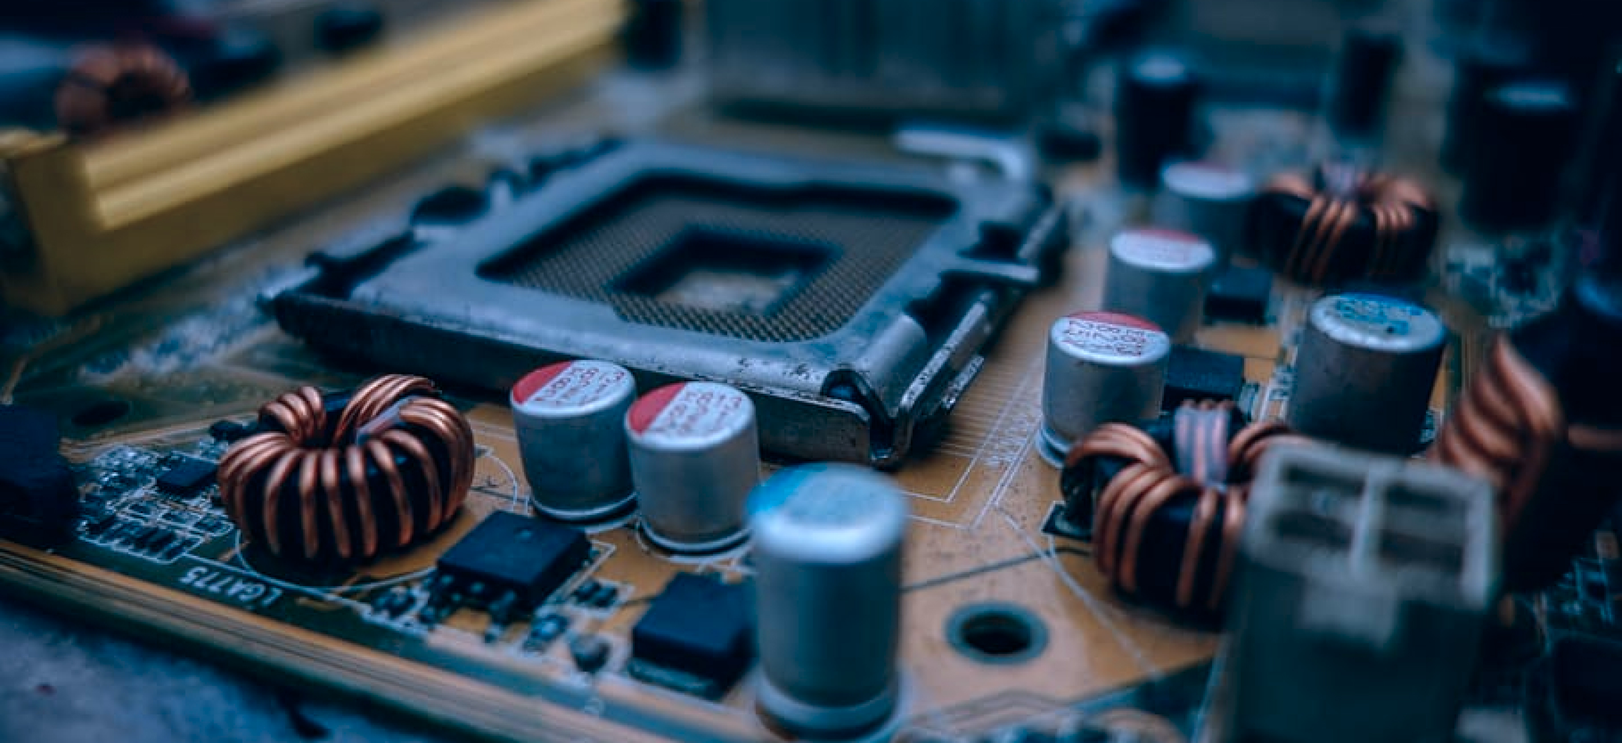
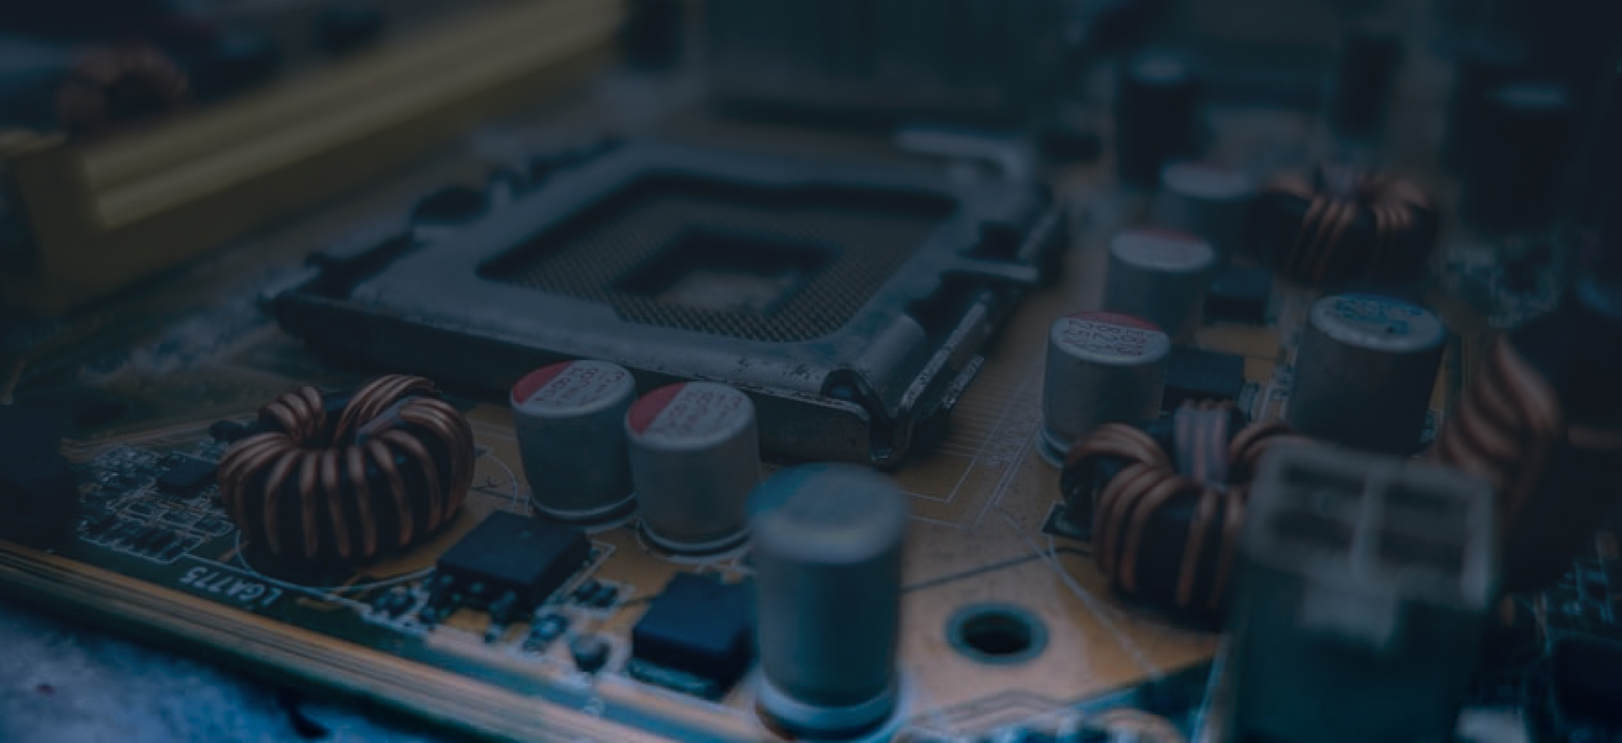
правит фоны секции главное

diff --git a/build/css/style.min.css b/build/css/style.min.css
@@ -1,3 +1,3 @@
 /*! normalize.css v8.0.1 | MIT License | github.com/necolas/normalize.css */
-html{-webkit-text-size-adjust:100%}details,main{display:block}h1{margin:.67em 0;font-size:2em}hr{-webkit-box-sizing:content-box;box-sizing:content-box;height:0;overflow:visible}code,kbd,pre,samp{font-size:1em;font-family:monospace,monospace}a{background-color:transparent;color:inherit;text-decoration:none}abbr[title]{-webkit-text-decoration:underline dotted;text-decoration:underline dotted;border-bottom:none}b,strong{font-weight:bolder}small{font-size:80%}sub,sup{position:relative;font-size:75%;line-height:0;vertical-align:baseline}sub{bottom:-.25em}sup{top:-.5em}img{border-style:none}button,input,optgroup,select,textarea{margin:0;font-size:100%;line-height:1.15;font-family:inherit}button,input{overflow:visible}button,select{text-transform:none}[type=button]::-moz-focus-inner,[type=reset]::-moz-focus-inner,[type=submit]::-moz-focus-inner,button::-moz-focus-inner{padding:0;border-style:none}[type=button]:-moz-focusring,[type=reset]:-moz-focusring,[type=submit]:-moz-focusring,button:-moz-focusring{outline:1px dotted ButtonText}fieldset{padding:.35em .75em .625em}legend{display:table;max-width:100%;color:inherit;white-space:normal}progress{vertical-align:baseline}textarea{overflow:auto;resize:none}[type=checkbox],[type=radio],legend{-webkit-box-sizing:border-box;box-sizing:border-box;padding:0}[type=number]::-webkit-inner-spin-button,[type=number]::-webkit-outer-spin-button{height:auto}[type=search]{outline-offset:-2px;-webkit-appearance:textfield}[type=search]::-webkit-search-decoration{-webkit-appearance:none}::-webkit-file-upload-button{font:inherit;-webkit-appearance:button}summary{display:list-item}[hidden],template{display:none}@font-face{font-family:"PT Mono";src:url(../fonts/PTMono-Regular.woff2) format("woff2"),url(../fonts/PTMono-Regular.woff) format("woff");font-weight:400;font-style:normal;font-display:swap}@font-face{font-family:"Roboto Condensed";src:url(../fonts/RobotoCondensed-Regular.woff2) format("woff2"),url(../fonts/RobotoCondensed-Regular.woff) format("woff");font-weight:400;font-style:normal;font-display:swap}@font-face{font-family:"Roboto Condensed";src:url(../fonts/RobotoCondensed-Bold.woff2) format("woff2"),url(../fonts/RobotoCondensed-Bold.woff) format("woff");font-weight:700;font-style:normal;font-display:swap}*,::after,::before{-webkit-box-sizing:border-box;box-sizing:border-box}body,html{margin:0;padding:0;min-height:100vh;min-width:320px}html{font-style:normal;font-weight:400;font-size:16px;line-height:22px;font-family:"PT Mono","Times New Roman",serif;color:#ebebeb;-webkit-font-smoothing:antialiased;-moz-osx-font-smoothing:grayscale;text-rendering:optimizeLegibility}body{width:100%;height:100%;background-color:#041827}img,video{display:block;max-width:100%;height:auto}input:-webkit-autofill{-webkit-box-shadow:inset 0 0 0 1000px #fff;box-shadow:inset 0 0 0 1000px #fff;-webkit-text-fill-color:#000}input,select,textarea{border-radius:0}input::-webkit-input-placeholder,textarea::-webkit-input-placeholder{opacity:1}input::-moz-placeholder,textarea::-moz-placeholder{opacity:1}input:-ms-input-placeholder,textarea:-ms-input-placeholder{opacity:1}input::-ms-input-placeholder,textarea::-ms-input-placeholder{opacity:1}input::placeholder,textarea::placeholder{opacity:1}input:invalid,textarea:invalid{-webkit-box-shadow:none;box-shadow:none}input::-ms-clear,input::-ms-reveal{display:none}input[type=search]::-webkit-search-cancel-button,input[type=search]::-webkit-search-decoration,input[type=search]::-webkit-search-results-button,input[type=search]::-webkit-search-results-decoration{-webkit-appearance:none;appearance:none}input::-webkit-inner-spin-button,input::-webkit-outer-spin-button{margin:0;-webkit-appearance:none;appearance:none}input[type=number]{-webkit-appearance:textfield;-moz-appearance:textfield;appearance:textfield}input:matches([type=email],[type=number],[type=password],[type=search],[type=tel],[type=text],[type=url]),select,textarea{-webkit-appearance:none;-moz-appearance:none;appearance:none}[type=button],[type=reset],[type=submit],button{-webkit-appearance:none;-moz-appearance:none;appearance:none}.wrapper{position:relative;display:-webkit-box;display:-ms-flexbox;display:flex;-webkit-box-orient:vertical;-webkit-box-direction:normal;-ms-flex-direction:column;flex-direction:column;min-height:100vh;min-height:calc(100*var(--vh, 1vh))}.wrapper .footer,.wrapper .header{-ms-flex-negative:0;flex-shrink:0}.wrapper main{-webkit-box-flex:1;-ms-flex-positive:1;flex-grow:1}.custom-select select,.visually-hidden{position:absolute;width:1px;height:1px;margin:-1px;padding:0;overflow:hidden;white-space:nowrap;border:0;clip:rect(0 0 0 0);-webkit-clip-path:inset(100%);clip-path:inset(100%)}.scroll-lock-ios{position:fixed;overflow:hidden}.scroll-lock{overflow:hidden}.no-scrollbar{-ms-overflow-style:none;scrollbar-width:none}.modal::-webkit-scrollbar,.no-scrollbar::-webkit-scrollbar{display:none}.no-transition{-webkit-transition:none!important;-o-transition:none!important;transition:none!important}.js-focus-visible :focus:not(.focus-visible){outline:0}.container{width:100%;min-width:320px;max-width:1318px;margin:0 auto;padding:0 49px}.button{display:-webkit-inline-box;display:-ms-inline-flexbox;display:inline-flex;padding:15px 25px;background-color:#00b2ff;color:#f2f5f6;font-size:18px;line-height:21px;font-family:"Roboto Condensed","Arial",sans-serif;font-weight:700;text-transform:uppercase;text-align:center;border:0;cursor:pointer;-webkit-transition:opacity .3s ease;-o-transition:opacity .3s ease;transition:opacity .3s ease}.button--call-me,.button--show-more{background-color:#041827;color:#f2f5f6;font-size:14px;line-height:16px;border:1px solid #ebebeb;padding:10px 15px}.button--show-more{background-color:#ebebeb;color:#00b2ff;border:1px solid #00b2ff;padding:14px 13px 8px 12px}.button--ask-question{background-color:#041827;color:#ebebeb;font-size:16px;line-height:19px}.button:disabled{opacity:.5;pointer-events:none}.button.focus-visible:focus,.header__logo-link.focus-visible:focus{opacity:.8}.header{background-color:transparent;background-image:-webkit-gradient(linear,left top,left bottom,color-stop(84.9%,#041827),to(rgba(4,24,39,0)));background-image:-o-linear-gradient(top,#041827 84.9%,rgba(4,24,39,0) 100%);background-image:linear-gradient(to bottom,#041827 84.9%,rgba(4,24,39,0) 100%);padding:30px 0 35px;position:fixed;top:0;left:0;right:0;z-index:2}.header__contact-list,.header__wrapper{display:-webkit-box;display:-ms-flexbox;display:flex}.header__wrapper{-webkit-box-pack:justify;-ms-flex-pack:justify;justify-content:space-between;-webkit-box-align:center;-ms-flex-align:center;align-items:center}.header__logo-link.focus-visible:active{opacity:.1}.header__contact-list{margin:0;padding:0;list-style-type:none;-webkit-box-orient:horizontal;-webkit-box-direction:normal;-ms-flex-direction:row;flex-direction:row;-ms-flex-wrap:wrap;flex-wrap:wrap}.header__contact-item:last-of-type{margin-right:20px}.header__contact-item:not(:last-of-type){margin-right:120px}.header__contact-link{display:block;background-repeat:no-repeat;background-position:left top 3px;background-size:20px 20px}.header__contact-link--mail{background-image:url(../../img/svg/mail.svg)}.header__contact-link--phone{background-image:url(../../img/svg/phone.svg)}.header__contact-link.focus-visible:focus{opacity:.8}.header__contact-capture{color:#f2f5f6;font-family:"Roboto Condensed","Arial",sans-serif;padding-left:35px}.presentation{padding:305px 0 280px;background-color:#041827;background-image:url(../../img/background/presentation-desktop.jpg);background-repeat:no-repeat;background-size:cover}.advantages__item h3,.presentation__title{font-family:"Roboto Condensed","Arial",sans-serif}.presentation__title{font-weight:700;font-size:80px;line-height:94px;text-transform:uppercase;letter-spacing:6px;margin:0 0 40px}.presentation__wrapper p{font-size:22px;line-height:34px;margin:0 0 40px;width:70.1%}.presentation__wrapper{width:79.5%;margin:0 auto}.presentation__button{width:-webkit-fit-content;width:-moz-fit-content;width:fit-content}.custom-select__text br,.presentation__button--mobile{display:none}.advantages{background-color:#ebebeb;color:#041827;padding-top:120px}.advantages__list{margin:0;padding:0;list-style-type:none;display:-ms-grid;display:grid;-ms-grid-columns:1fr 1fr;grid-template-columns:1fr 1fr;gap:30px}.advantages__icon{color:#00b2ff;margin-bottom:20px}.advantages__item{padding:40px 45px 35px 40px;min-height:300px;border:1px solid #e5e5e5;border-left:5px solid #00b2ff}.advantages__item:hover .advantages__icon,.advantages__item:hover .advantages__title{color:#f2f5f6}.advantages__item h3{margin:0 0 15px;font-size:24px;line-height:34px;color:#00b2ff}.advantages__item p{margin:0}.custom-input label,.custom-textarea label,.modal{display:-webkit-box;display:-ms-flexbox;display:flex}.modal{position:fixed;top:0;right:0;bottom:0;left:0;z-index:1000;-webkit-box-orient:vertical;-webkit-box-direction:normal;-ms-flex-direction:column;flex-direction:column;overflow-y:auto;-webkit-overflow-scrolling:touch;background-color:rgba(0,0,0,.8);-webkit-transform:scale(1.2);-ms-transform:scale(1.2);transform:scale(1.2);visibility:hidden;opacity:0;-webkit-transition:opacity .6s cubic-bezier(.55,0,.1,1),visibility .6s cubic-bezier(.55,0,.1,1),-webkit-transform .6s cubic-bezier(.55,0,.1,1);-o-transition:opacity .6s cubic-bezier(.55,0,.1,1),transform .6s cubic-bezier(.55,0,.1,1),visibility .6s cubic-bezier(.55,0,.1,1);transition:opacity .6s cubic-bezier(.55,0,.1,1),transform .6s cubic-bezier(.55,0,.1,1),visibility .6s cubic-bezier(.55,0,.1,1);transition:opacity .6s cubic-bezier(.55,0,.1,1),transform .6s cubic-bezier(.55,0,.1,1),visibility .6s cubic-bezier(.55,0,.1,1),-webkit-transform .6s cubic-bezier(.55,0,.1,1);pointer-events:none;-ms-overflow-style:none;scrollbar-width:none}.modal__wrapper{position:relative;display:-webkit-box;display:-ms-flexbox;display:flex;-ms-flex-negative:0;flex-shrink:0;-webkit-box-pack:center;-ms-flex-pack:center;justify-content:center;-webkit-box-align:center;-ms-flex-align:center;align-items:center;width:100%;min-height:100%;padding:60px 40px}.modal__overlay{position:absolute;top:0;left:0;width:100%;height:100%;cursor:pointer}.modal__content{position:relative;width:600px;padding:40px;background-color:#fff}.modal__close-btn{position:absolute;top:22px;right:22px;z-index:1;width:40px;height:40px;padding:0;background:0 0;border:0;cursor:pointer}.modal--responsive .modal__content{width:100%}.modal--fit-content .modal__content{width:auto}.modal--no-scale{-webkit-transform:none;-ms-transform:none;transform:none}.modal--preload{-webkit-transition:none;-o-transition:none;transition:none}.modal.is-active{-webkit-transform:scale(1);-ms-transform:scale(1);transform:scale(1);visibility:visible;opacity:1;pointer-events:auto}.custom-input,.custom-textarea{position:relative;display:-webkit-box;display:-ms-flexbox;display:flex;width:530px;padding:14px 0 28px}.custom-input label,.custom-textarea label{-webkit-box-align:center;-ms-flex-align:center;align-items:center;width:100%}.custom-input label input,.custom-input label textarea,.custom-textarea label input,.custom-textarea label textarea{-webkit-box-flex:1;-ms-flex-positive:1;flex-grow:1;max-width:300px;min-height:48px;margin-left:auto;padding:10px;border:2px solid rgba(0,0,0,.2);border-radius:5px;outline:0;-webkit-transition:border .3s ease;-o-transition:border .3s ease;transition:border .3s ease}.custom-input label input:hover,.custom-input label textarea:hover,.custom-textarea label input:hover,.custom-textarea label textarea:hover{border:2px solid rgba(0,0,0,.5)}.custom-input label input:focus,.custom-input label textarea:focus,.custom-textarea label input:focus,.custom-textarea label textarea:focus{border:2px solid rgba(0,0,0,.8)}.custom-input__error,.custom-textarea__error{position:absolute;right:0;bottom:35px;color:#ff1553;opacity:0;-webkit-transition:opacity .3s ease;-o-transition:opacity .3s ease;transition:opacity .3s ease}.custom-input.is-invalid input,.custom-input.is-invalid textarea,.custom-textarea.is-invalid input,.custom-textarea.is-invalid textarea{border:2px solid #ff1553}.custom-input.is-invalid input:focus,.custom-input.is-invalid input:hover,.custom-input.is-invalid textarea:focus,.custom-input.is-invalid textarea:hover,.custom-textarea.is-invalid input:focus,.custom-textarea.is-invalid input:hover,.custom-textarea.is-invalid textarea:focus,.custom-textarea.is-invalid textarea:hover{border:2px solid rgba(255,21,83,.5)}.custom-input.is-valid input,.custom-textarea.is-valid input{border:2px solid #22b259}.custom-input.is-valid input:focus,.custom-input.is-valid input:hover,.custom-textarea.is-valid input:focus,.custom-textarea.is-valid input:hover{border:2px solid rgba(34,178,89,.5)}.custom-input .input-message,.custom-textarea .input-message{position:absolute;right:0;bottom:-5px}.custom-input .input-message.is-invalid,.custom-textarea .input-message.is-invalid{color:red}.custom-input .input-message.is-valid,.custom-textarea .input-message.is-valid{color:#15ab07}.custom-toggle{position:relative;font-size:18px;line-height:27px;font-weight:300;display:-webkit-box;display:-ms-flexbox;display:flex;width:500px;padding:14px 0 10px 36px}.custom-toggle:last-of-type{padding:14px 0 58px 36px}.custom-toggle input{position:absolute;width:1px;height:1px;margin:-1px;clip:rect(0 0 0 0)}.custom-toggle label{position:relative;padding-left:52px;cursor:pointer}.custom-toggle label span{margin-bottom:0;margin-left:0}.custom-toggle--checkbox .custom-toggle__icon,.custom-toggle--radio .custom-toggle__icon{position:absolute;top:0;left:0;width:28px;height:28px;border:1.5px solid #2c39f2;-webkit-transition:border .3s ease;-o-transition:border .3s ease;transition:border .3s ease}.custom-toggle--checkbox .custom-toggle__icon::before,.custom-toggle--radio .custom-toggle__icon::before{content:"";position:absolute;top:50%;left:50%;width:20px;height:20px;-webkit-transform:translate(-50%,-50%);-ms-transform:translate(-50%,-50%);transform:translate(-50%,-50%)}.custom-toggle--checkbox .custom-toggle__icon::before{background-color:transparent;-webkit-transition:background-color .3s ease;-o-transition:background-color .3s ease;transition:background-color .3s ease}.custom-toggle--radio .custom-toggle__icon{border:1px solid #2c39f2;border-radius:50%}.custom-toggle--radio .custom-toggle__icon::before{color:transparent;border-radius:50%;-webkit-transition:color .3s ease;-o-transition:color .3s ease;transition:color .3s ease}.custom-toggle input:checked+.custom-toggle__icon{border:1.5px solid #2c39f2}.custom-toggle input:checked+.custom-toggle__icon::before{background-color:#2c39f2}.custom-toggle.is-invalid label span{color:#ff1553}.custom-toggle .input-message{position:absolute;right:0;bottom:-5px}.custom-toggle .input-message.is-invalid{color:red}.custom-toggle .input-message.is-valid{color:#15ab07}.custom-select{position:relative;width:300px;padding:14px 0 28px;margin:0 0 44px}.custom-select__label,.custom-select__placeholder{position:absolute;top:50%;left:10px;-webkit-transform:translateY(-50%);-ms-transform:translateY(-50%);transform:translateY(-50%);-webkit-transition:opacity .3s ease,-webkit-transform .3s ease;-o-transition:transform .3s ease,opacity .3s ease;transition:transform .3s ease,opacity .3s ease;transition:transform .3s ease,opacity .3s ease,-webkit-transform .3s ease;pointer-events:none}.custom-select__button{display:-webkit-box;display:-ms-flexbox;display:flex;-webkit-box-align:center;-ms-flex-align:center;align-items:center;width:100%;height:48px;padding:5px 10px;background-color:transparent;border:2px solid rgba(0,0,0,.2);border-radius:5px;outline:0;cursor:pointer;-webkit-transition:border .3s ease;-o-transition:border .3s ease;transition:border .3s ease}.custom-select__button:hover{border:2px solid rgba(0,0,0,.5)}.custom-select__button:focus{border:2px solid rgba(0,0,0,.8)}.custom-select__button:disabled{pointer-events:none;opacity:.3}.custom-select__list{position:absolute;bottom:10px;z-index:1;width:100%;max-height:100px;margin:0;padding:0;overflow-y:auto;list-style:none;background-color:#fff;border:2px solid #000;-webkit-transform:translateY(100%);-ms-transform:translateY(100%);transform:translateY(100%);visibility:hidden;opacity:0;-webkit-transition:visibility .3s ease,opacity .3s ease;-o-transition:visibility .3s ease,opacity .3s ease;transition:visibility .3s ease,opacity .3s ease}.custom-select__item{padding:5px;outline:0;cursor:pointer;-webkit-transition:background-color .3s ease;-o-transition:background-color .3s ease;transition:background-color .3s ease}.custom-select__item[aria-selected=true]{background-color:rgba(0,0,0,.2)}.custom-select__item[aria-selected=true].focus-visible:focus{background-color:rgba(0,0,0,.2)}.custom-select__item.focus-visible:focus{background-color:rgba(0,0,0,.4)}.custom-select__error{position:absolute;bottom:-15px;left:0;color:#ff1553;opacity:0;-webkit-transition:opacity .1s ease;-o-transition:opacity .1s ease;transition:opacity .1s ease}.custom-select__text{font-size:20px;line-height:24px;-ms-flex-negative:0;flex-shrink:0;width:80%;overflow:hidden;text-align:left;white-space:nowrap;-o-text-overflow:ellipsis;text-overflow:ellipsis;opacity:0;-webkit-transition:opacity .3s ease .1s;-o-transition:opacity .3s ease .1s;transition:opacity .3s ease .1s}.custom-select__icon{-ms-flex-negative:0;flex-shrink:0;width:20px;height:10px;margin-left:auto;background-color:#000;-webkit-transition:-webkit-transform .3s ease;-o-transition:transform .3s ease;transition:transform .3s ease;transition:transform .3s ease,-webkit-transform .3s ease;-webkit-clip-path:polygon(100% 0,100% 20%,50% 100%,0 20%,0 0,50% 80%);clip-path:polygon(100% 0,100% 20%,50% 100%,0 20%,0 0,50% 80%)}.custom-select.is-disabled{pointer-events:none}.custom-select.is-disabled .custom-select__list{display:none}.custom-select.open-up .custom-select__list{bottom:auto;top:0;-webkit-transform:translateY(calc(-100% + 10px));-ms-transform:translateY(calc(-100% + 10px));transform:translateY(calc(-100% + 10px))}.custom-select.is-open .custom-select__list{visibility:visible;opacity:1}.custom-select.is-open .custom-select__icon{-webkit-transform:rotate(180deg);-ms-transform:rotate(180deg);transform:rotate(180deg)}.custom-select.is-open .custom-select__label{opacity:0}.custom-select.not-empty .custom-select__text{opacity:1}.custom-select.not-empty .custom-select__label,.custom-select.not-empty .custom-select__placeholder{opacity:0}.custom-select.is-invalid .custom-select__error{opacity:1}.custom-select.is-invalid .custom-select__button{border:2px solid #ff1553}.custom-select.is-invalid .custom-select__button:focus,.custom-select.is-invalid .custom-select__button:hover{border:2px solid rgba(255,21,83,.5)}.custom-select--placeholder .custom-select__label,.custom-select.slide-up.is-open .custom-select__label,.custom-select.slide-up.not-empty .custom-select__label{-webkit-transform:translateY(calc(-50% - 40px));-ms-transform:translateY(calc(-50% - 40px));transform:translateY(calc(-50% - 40px));opacity:1}.custom-select--placeholder.is-open .custom-select__label,.custom-select--placeholder.not-empty .custom-select__label,.custom-select.slide-up.is-open .custom-select__text,.custom-select.slide-up.not-empty .custom-select__text{opacity:1}.custom-select .input-message{position:absolute;right:0;bottom:-5px}.custom-select .input-message.is-invalid{color:red}.custom-select .input-message.is-valid{color:#15ab07}@media (max-width:1023px){.header{padding:20px 0 25px}.header__contact-item:not(:last-of-type){margin-right:20px}.header__contact-link{padding:20px;background-position:center}.header__button,.header__contact-capture{display:none}.presentation{padding:180px 0 205px}.presentation__title{font-size:64px;line-height:75px;margin-bottom:20px}.presentation__wrapper p{margin-bottom:50px;width:100%}.presentation__wrapper{width:100%}.presentation__button{margin-left:6.9%}.advantages{padding-top:80px}}@media (max-width:767px){.container{padding:0 25px}.button{font-size:14px;line-height:16px}.header{padding:10px 0 15px}.header__logo-img{width:35px;height:35px}.header__contact-item:last-of-type{margin-right:10px}.presentation{padding:150px 0 190px}.presentation__title{font-size:36px;line-height:42px}.presentation__wrapper p{font-size:14px;line-height:22px}.presentation__button{width:100%;margin-left:0}.presentation__button--mobile{display:block}.presentation__button--desktop{display:none}.advantages{padding-top:50px}.advantages__list{-ms-grid-columns:1fr;grid-template-columns:1fr}.advantages__item{padding:30px 30px 56px;min-height:270px}.advantages__item h3{font-size:20px;line-height:28px}.advantages__item p{font-size:14px;line-height:19px}.modal__wrapper{padding:60px 16px}.modal__content{width:100%;padding:20px}.modal--fit-content .modal__content{width:100%}}@media screen and (max-width:767px){.custom-input,.custom-textarea{padding:4px 0 48px;width:100%}.custom-input label,.custom-textarea label{-webkit-box-align:start;-ms-flex-align:start;align-items:flex-start;-webkit-box-orient:vertical;-webkit-box-direction:normal;-ms-flex-direction:column;flex-direction:column}.custom-input label input,.custom-input label textarea,.custom-textarea label input,.custom-textarea label textarea{max-width:unset;width:100%}.custom-input__label,.custom-textarea__label{margin:0 0 18px}.custom-input__error,.custom-textarea__error{bottom:20px}.custom-toggle{padding:14px 0 10px;width:100%}.custom-toggle:last-of-type{padding:14px 0 58px}.custom-select{padding:4px 0 14px;width:100%}.custom-select__label,.custom-select__placeholder{-webkit-transform:translateY(calc(-50% - 5px));-ms-transform:translateY(calc(-50% - 5px));transform:translateY(calc(-50% - 5px))}}@media (hover:hover){.button:hover:not(.focus-visible),.header__contact-link:hover:not(.focus-visible),.header__logo-link:hover:not(.focus-visible){opacity:.8}.advantages__item:hover:not(.focus-visible){color:#f2f5f6;border-color:#00b2ff;background-color:#00b2ff}.custom-select__item[aria-selected=true]:hover:not(.focus-visible){background-color:rgba(0,0,0,.2)}.custom-select__item:hover:not(.focus-visible){background-color:rgba(0,0,0,.4)}}@media (-webkit-min-device-pixel-ratio:2),(-o-min-device-pixel-ratio:2/1),(min-resolution:2dppx){.presentation{background-image:url(../../img/background/presentation-desktop@2x.jpg)}}
+html{-webkit-text-size-adjust:100%}details,main{display:block}h1{margin:.67em 0;font-size:2em}hr{-webkit-box-sizing:content-box;box-sizing:content-box;height:0;overflow:visible}code,kbd,pre,samp{font-size:1em;font-family:monospace,monospace}a{background-color:transparent;color:inherit;text-decoration:none}abbr[title]{-webkit-text-decoration:underline dotted;text-decoration:underline dotted;border-bottom:none}b,strong{font-weight:bolder}small{font-size:80%}sub,sup{position:relative;font-size:75%;line-height:0;vertical-align:baseline}sub{bottom:-.25em}sup{top:-.5em}img{border-style:none}button,input,optgroup,select,textarea{margin:0;font-size:100%;line-height:1.15;font-family:inherit}button,input{overflow:visible}button,select{text-transform:none}[type=button]::-moz-focus-inner,[type=reset]::-moz-focus-inner,[type=submit]::-moz-focus-inner,button::-moz-focus-inner{padding:0;border-style:none}[type=button]:-moz-focusring,[type=reset]:-moz-focusring,[type=submit]:-moz-focusring,button:-moz-focusring{outline:1px dotted ButtonText}fieldset{padding:.35em .75em .625em}legend{display:table;max-width:100%;color:inherit;white-space:normal}progress{vertical-align:baseline}textarea{overflow:auto;resize:none}[type=checkbox],[type=radio],legend{-webkit-box-sizing:border-box;box-sizing:border-box;padding:0}[type=number]::-webkit-inner-spin-button,[type=number]::-webkit-outer-spin-button{height:auto}[type=search]{outline-offset:-2px;-webkit-appearance:textfield}[type=search]::-webkit-search-decoration{-webkit-appearance:none}::-webkit-file-upload-button{font:inherit;-webkit-appearance:button}summary{display:list-item}[hidden],template{display:none}@font-face{font-family:"PT Mono";src:url(../fonts/PTMono-Regular.woff2) format("woff2"),url(../fonts/PTMono-Regular.woff) format("woff");font-weight:400;font-style:normal;font-display:swap}@font-face{font-family:"Roboto Condensed";src:url(../fonts/RobotoCondensed-Regular.woff2) format("woff2"),url(../fonts/RobotoCondensed-Regular.woff) format("woff");font-weight:400;font-style:normal;font-display:swap}@font-face{font-family:"Roboto Condensed";src:url(../fonts/RobotoCondensed-Bold.woff2) format("woff2"),url(../fonts/RobotoCondensed-Bold.woff) format("woff");font-weight:700;font-style:normal;font-display:swap}*,::after,::before{-webkit-box-sizing:border-box;box-sizing:border-box}body,html{margin:0;padding:0;min-height:100vh;min-width:320px}html{font-style:normal;font-weight:400;font-size:16px;line-height:22px;font-family:"PT Mono","Times New Roman",serif;color:#ebebeb;-webkit-font-smoothing:antialiased;-moz-osx-font-smoothing:grayscale;text-rendering:optimizeLegibility}body{width:100%;height:100%;background-color:#041827}img,video{display:block;max-width:100%;height:auto}input:-webkit-autofill{-webkit-box-shadow:inset 0 0 0 1000px #fff;box-shadow:inset 0 0 0 1000px #fff;-webkit-text-fill-color:#000}input,select,textarea{border-radius:0}input::-webkit-input-placeholder,textarea::-webkit-input-placeholder{opacity:1}input::-moz-placeholder,textarea::-moz-placeholder{opacity:1}input:-ms-input-placeholder,textarea:-ms-input-placeholder{opacity:1}input::-ms-input-placeholder,textarea::-ms-input-placeholder{opacity:1}input::placeholder,textarea::placeholder{opacity:1}input:invalid,textarea:invalid{-webkit-box-shadow:none;box-shadow:none}input::-ms-clear,input::-ms-reveal{display:none}input[type=search]::-webkit-search-cancel-button,input[type=search]::-webkit-search-decoration,input[type=search]::-webkit-search-results-button,input[type=search]::-webkit-search-results-decoration{-webkit-appearance:none;appearance:none}input::-webkit-inner-spin-button,input::-webkit-outer-spin-button{margin:0;-webkit-appearance:none;appearance:none}input[type=number]{-webkit-appearance:textfield;-moz-appearance:textfield;appearance:textfield}input:matches([type=email],[type=number],[type=password],[type=search],[type=tel],[type=text],[type=url]),select,textarea{-webkit-appearance:none;-moz-appearance:none;appearance:none}[type=button],[type=reset],[type=submit],button{-webkit-appearance:none;-moz-appearance:none;appearance:none}.wrapper{position:relative;display:-webkit-box;display:-ms-flexbox;display:flex;-webkit-box-orient:vertical;-webkit-box-direction:normal;-ms-flex-direction:column;flex-direction:column;min-height:100vh;min-height:calc(100*var(--vh, 1vh))}.wrapper .footer,.wrapper .header{-ms-flex-negative:0;flex-shrink:0}.wrapper main{-webkit-box-flex:1;-ms-flex-positive:1;flex-grow:1}.custom-select select,.visually-hidden{position:absolute;width:1px;height:1px;margin:-1px;padding:0;overflow:hidden;white-space:nowrap;border:0;clip:rect(0 0 0 0);-webkit-clip-path:inset(100%);clip-path:inset(100%)}.scroll-lock-ios{position:fixed;overflow:hidden}.scroll-lock{overflow:hidden}.no-scrollbar{-ms-overflow-style:none;scrollbar-width:none}.modal::-webkit-scrollbar,.no-scrollbar::-webkit-scrollbar{display:none}.no-transition{-webkit-transition:none!important;-o-transition:none!important;transition:none!important}.js-focus-visible :focus:not(.focus-visible){outline:0}.container{width:100%;min-width:320px;max-width:1318px;margin:0 auto;padding:0 49px}.button{display:-webkit-inline-box;display:-ms-inline-flexbox;display:inline-flex;padding:15px 25px;background-color:#00b2ff;color:#f2f5f6;font-size:18px;line-height:21px;font-family:"Roboto Condensed","Arial",sans-serif;font-weight:700;text-transform:uppercase;text-align:center;border:0;cursor:pointer;-webkit-transition:opacity .3s ease;-o-transition:opacity .3s ease;transition:opacity .3s ease}.button--call-me,.button--show-more{background-color:#041827;color:#f2f5f6;font-size:14px;line-height:16px;border:1px solid #ebebeb;padding:10px 15px}.button--show-more{background-color:#ebebeb;color:#00b2ff;border:1px solid #00b2ff;padding:14px 13px 8px 12px}.button--ask-question{background-color:#041827;color:#ebebeb;font-size:16px;line-height:19px}.button:disabled{opacity:.5;pointer-events:none}.button.focus-visible:focus,.header__logo-link.focus-visible:focus{opacity:.8}.header{background-color:transparent;background-image:-webkit-gradient(linear,left top,left bottom,color-stop(84.9%,#041827),to(rgba(4,24,39,0)));background-image:-o-linear-gradient(top,#041827 84.9%,rgba(4,24,39,0) 100%);background-image:linear-gradient(to bottom,#041827 84.9%,rgba(4,24,39,0) 100%);padding:30px 0 35px;position:fixed;top:0;left:0;right:0;z-index:2}.header__contact-list,.header__wrapper{display:-webkit-box;display:-ms-flexbox;display:flex}.header__wrapper{-webkit-box-pack:justify;-ms-flex-pack:justify;justify-content:space-between;-webkit-box-align:center;-ms-flex-align:center;align-items:center}.header__logo-link.focus-visible:active{opacity:.1}.header__contact-list{margin:0;padding:0;list-style-type:none;-webkit-box-orient:horizontal;-webkit-box-direction:normal;-ms-flex-direction:row;flex-direction:row;-ms-flex-wrap:wrap;flex-wrap:wrap}.header__contact-item:last-of-type{margin-right:20px}.header__contact-item:not(:last-of-type){margin-right:120px}.header__contact-link{display:block;background-repeat:no-repeat;background-position:left top 3px;background-size:20px 20px}.header__contact-link--mail{background-image:url(../../img/svg/mail.svg)}.header__contact-link--phone{background-image:url(../../img/svg/phone.svg)}.header__contact-link.focus-visible:focus{opacity:.8}.header__contact-capture{color:#f2f5f6;font-family:"Roboto Condensed","Arial",sans-serif;padding-left:35px}.presentation{padding:305px 0 280px;background-color:#041827;background-image:url(../../img/background/presentation-desktop.jpg);background-repeat:no-repeat;background-size:cover}.advantages__item h3,.presentation__title{font-family:"Roboto Condensed","Arial",sans-serif}.presentation__title{font-weight:700;font-size:80px;line-height:94px;text-transform:uppercase;letter-spacing:6px;margin:0 0 40px}.presentation__wrapper p{font-size:22px;line-height:34px;margin:0 0 40px;width:70.1%}.presentation__wrapper{width:79.5%;margin:0 auto}.presentation__button{width:-webkit-fit-content;width:-moz-fit-content;width:fit-content}.custom-select__text br,.presentation__button--mobile{display:none}.advantages{background-color:#ebebeb;color:#041827;padding-top:120px}.advantages__list{margin:0;padding:0;list-style-type:none;display:-ms-grid;display:grid;-ms-grid-columns:1fr 1fr;grid-template-columns:1fr 1fr;gap:30px}.advantages__icon{color:#00b2ff;margin-bottom:20px}.advantages__item{padding:40px 45px 35px 40px;min-height:300px;border:1px solid #e5e5e5;border-left:5px solid #00b2ff}.advantages__item:hover .advantages__icon,.advantages__item:hover .advantages__title{color:#f2f5f6}.advantages__item h3{margin:0 0 15px;font-size:24px;line-height:34px;color:#00b2ff}.advantages__item p{margin:0}.custom-input label,.custom-textarea label,.modal{display:-webkit-box;display:-ms-flexbox;display:flex}.modal{position:fixed;top:0;right:0;bottom:0;left:0;z-index:1000;-webkit-box-orient:vertical;-webkit-box-direction:normal;-ms-flex-direction:column;flex-direction:column;overflow-y:auto;-webkit-overflow-scrolling:touch;background-color:rgba(0,0,0,.8);-webkit-transform:scale(1.2);-ms-transform:scale(1.2);transform:scale(1.2);visibility:hidden;opacity:0;-webkit-transition:opacity .6s cubic-bezier(.55,0,.1,1),visibility .6s cubic-bezier(.55,0,.1,1),-webkit-transform .6s cubic-bezier(.55,0,.1,1);-o-transition:opacity .6s cubic-bezier(.55,0,.1,1),transform .6s cubic-bezier(.55,0,.1,1),visibility .6s cubic-bezier(.55,0,.1,1);transition:opacity .6s cubic-bezier(.55,0,.1,1),transform .6s cubic-bezier(.55,0,.1,1),visibility .6s cubic-bezier(.55,0,.1,1);transition:opacity .6s cubic-bezier(.55,0,.1,1),transform .6s cubic-bezier(.55,0,.1,1),visibility .6s cubic-bezier(.55,0,.1,1),-webkit-transform .6s cubic-bezier(.55,0,.1,1);pointer-events:none;-ms-overflow-style:none;scrollbar-width:none}.modal__wrapper{position:relative;display:-webkit-box;display:-ms-flexbox;display:flex;-ms-flex-negative:0;flex-shrink:0;-webkit-box-pack:center;-ms-flex-pack:center;justify-content:center;-webkit-box-align:center;-ms-flex-align:center;align-items:center;width:100%;min-height:100%;padding:60px 40px}.modal__overlay{position:absolute;top:0;left:0;width:100%;height:100%;cursor:pointer}.modal__content{position:relative;width:600px;padding:40px;background-color:#fff}.modal__close-btn{position:absolute;top:22px;right:22px;z-index:1;width:40px;height:40px;padding:0;background:0 0;border:0;cursor:pointer}.modal--responsive .modal__content{width:100%}.modal--fit-content .modal__content{width:auto}.modal--no-scale{-webkit-transform:none;-ms-transform:none;transform:none}.modal--preload{-webkit-transition:none;-o-transition:none;transition:none}.modal.is-active{-webkit-transform:scale(1);-ms-transform:scale(1);transform:scale(1);visibility:visible;opacity:1;pointer-events:auto}.custom-input,.custom-textarea{position:relative;display:-webkit-box;display:-ms-flexbox;display:flex;width:530px;padding:14px 0 28px}.custom-input label,.custom-textarea label{-webkit-box-align:center;-ms-flex-align:center;align-items:center;width:100%}.custom-input label input,.custom-input label textarea,.custom-textarea label input,.custom-textarea label textarea{-webkit-box-flex:1;-ms-flex-positive:1;flex-grow:1;max-width:300px;min-height:48px;margin-left:auto;padding:10px;border:2px solid rgba(0,0,0,.2);border-radius:5px;outline:0;-webkit-transition:border .3s ease;-o-transition:border .3s ease;transition:border .3s ease}.custom-input label input:hover,.custom-input label textarea:hover,.custom-textarea label input:hover,.custom-textarea label textarea:hover{border:2px solid rgba(0,0,0,.5)}.custom-input label input:focus,.custom-input label textarea:focus,.custom-textarea label input:focus,.custom-textarea label textarea:focus{border:2px solid rgba(0,0,0,.8)}.custom-input__error,.custom-textarea__error{position:absolute;right:0;bottom:35px;color:#ff1553;opacity:0;-webkit-transition:opacity .3s ease;-o-transition:opacity .3s ease;transition:opacity .3s ease}.custom-input.is-invalid input,.custom-input.is-invalid textarea,.custom-textarea.is-invalid input,.custom-textarea.is-invalid textarea{border:2px solid #ff1553}.custom-input.is-invalid input:focus,.custom-input.is-invalid input:hover,.custom-input.is-invalid textarea:focus,.custom-input.is-invalid textarea:hover,.custom-textarea.is-invalid input:focus,.custom-textarea.is-invalid input:hover,.custom-textarea.is-invalid textarea:focus,.custom-textarea.is-invalid textarea:hover{border:2px solid rgba(255,21,83,.5)}.custom-input.is-valid input,.custom-textarea.is-valid input{border:2px solid #22b259}.custom-input.is-valid input:focus,.custom-input.is-valid input:hover,.custom-textarea.is-valid input:focus,.custom-textarea.is-valid input:hover{border:2px solid rgba(34,178,89,.5)}.custom-input .input-message,.custom-textarea .input-message{position:absolute;right:0;bottom:-5px}.custom-input .input-message.is-invalid,.custom-textarea .input-message.is-invalid{color:red}.custom-input .input-message.is-valid,.custom-textarea .input-message.is-valid{color:#15ab07}.custom-toggle{position:relative;font-size:18px;line-height:27px;font-weight:300;display:-webkit-box;display:-ms-flexbox;display:flex;width:500px;padding:14px 0 10px 36px}.custom-toggle:last-of-type{padding:14px 0 58px 36px}.custom-toggle input{position:absolute;width:1px;height:1px;margin:-1px;clip:rect(0 0 0 0)}.custom-toggle label{position:relative;padding-left:52px;cursor:pointer}.custom-toggle label span{margin-bottom:0;margin-left:0}.custom-toggle--checkbox .custom-toggle__icon,.custom-toggle--radio .custom-toggle__icon{position:absolute;top:0;left:0;width:28px;height:28px;border:1.5px solid #2c39f2;-webkit-transition:border .3s ease;-o-transition:border .3s ease;transition:border .3s ease}.custom-toggle--checkbox .custom-toggle__icon::before,.custom-toggle--radio .custom-toggle__icon::before{content:"";position:absolute;top:50%;left:50%;width:20px;height:20px;-webkit-transform:translate(-50%,-50%);-ms-transform:translate(-50%,-50%);transform:translate(-50%,-50%)}.custom-toggle--checkbox .custom-toggle__icon::before{background-color:transparent;-webkit-transition:background-color .3s ease;-o-transition:background-color .3s ease;transition:background-color .3s ease}.custom-toggle--radio .custom-toggle__icon{border:1px solid #2c39f2;border-radius:50%}.custom-toggle--radio .custom-toggle__icon::before{color:transparent;border-radius:50%;-webkit-transition:color .3s ease;-o-transition:color .3s ease;transition:color .3s ease}.custom-toggle input:checked+.custom-toggle__icon{border:1.5px solid #2c39f2}.custom-toggle input:checked+.custom-toggle__icon::before{background-color:#2c39f2}.custom-toggle.is-invalid label span{color:#ff1553}.custom-toggle .input-message{position:absolute;right:0;bottom:-5px}.custom-toggle .input-message.is-invalid{color:red}.custom-toggle .input-message.is-valid{color:#15ab07}.custom-select{position:relative;width:300px;padding:14px 0 28px;margin:0 0 44px}.custom-select__label,.custom-select__placeholder{position:absolute;top:50%;left:10px;-webkit-transform:translateY(-50%);-ms-transform:translateY(-50%);transform:translateY(-50%);-webkit-transition:opacity .3s ease,-webkit-transform .3s ease;-o-transition:transform .3s ease,opacity .3s ease;transition:transform .3s ease,opacity .3s ease;transition:transform .3s ease,opacity .3s ease,-webkit-transform .3s ease;pointer-events:none}.custom-select__button{display:-webkit-box;display:-ms-flexbox;display:flex;-webkit-box-align:center;-ms-flex-align:center;align-items:center;width:100%;height:48px;padding:5px 10px;background-color:transparent;border:2px solid rgba(0,0,0,.2);border-radius:5px;outline:0;cursor:pointer;-webkit-transition:border .3s ease;-o-transition:border .3s ease;transition:border .3s ease}.custom-select__button:hover{border:2px solid rgba(0,0,0,.5)}.custom-select__button:focus{border:2px solid rgba(0,0,0,.8)}.custom-select__button:disabled{pointer-events:none;opacity:.3}.custom-select__list{position:absolute;bottom:10px;z-index:1;width:100%;max-height:100px;margin:0;padding:0;overflow-y:auto;list-style:none;background-color:#fff;border:2px solid #000;-webkit-transform:translateY(100%);-ms-transform:translateY(100%);transform:translateY(100%);visibility:hidden;opacity:0;-webkit-transition:visibility .3s ease,opacity .3s ease;-o-transition:visibility .3s ease,opacity .3s ease;transition:visibility .3s ease,opacity .3s ease}.custom-select__item{padding:5px;outline:0;cursor:pointer;-webkit-transition:background-color .3s ease;-o-transition:background-color .3s ease;transition:background-color .3s ease}.custom-select__item[aria-selected=true]{background-color:rgba(0,0,0,.2)}.custom-select__item[aria-selected=true].focus-visible:focus{background-color:rgba(0,0,0,.2)}.custom-select__item.focus-visible:focus{background-color:rgba(0,0,0,.4)}.custom-select__error{position:absolute;bottom:-15px;left:0;color:#ff1553;opacity:0;-webkit-transition:opacity .1s ease;-o-transition:opacity .1s ease;transition:opacity .1s ease}.custom-select__text{font-size:20px;line-height:24px;-ms-flex-negative:0;flex-shrink:0;width:80%;overflow:hidden;text-align:left;white-space:nowrap;-o-text-overflow:ellipsis;text-overflow:ellipsis;opacity:0;-webkit-transition:opacity .3s ease .1s;-o-transition:opacity .3s ease .1s;transition:opacity .3s ease .1s}.custom-select__icon{-ms-flex-negative:0;flex-shrink:0;width:20px;height:10px;margin-left:auto;background-color:#000;-webkit-transition:-webkit-transform .3s ease;-o-transition:transform .3s ease;transition:transform .3s ease;transition:transform .3s ease,-webkit-transform .3s ease;-webkit-clip-path:polygon(100% 0,100% 20%,50% 100%,0 20%,0 0,50% 80%);clip-path:polygon(100% 0,100% 20%,50% 100%,0 20%,0 0,50% 80%)}.custom-select.is-disabled{pointer-events:none}.custom-select.is-disabled .custom-select__list{display:none}.custom-select.open-up .custom-select__list{bottom:auto;top:0;-webkit-transform:translateY(calc(-100% + 10px));-ms-transform:translateY(calc(-100% + 10px));transform:translateY(calc(-100% + 10px))}.custom-select.is-open .custom-select__list{visibility:visible;opacity:1}.custom-select.is-open .custom-select__icon{-webkit-transform:rotate(180deg);-ms-transform:rotate(180deg);transform:rotate(180deg)}.custom-select.is-open .custom-select__label{opacity:0}.custom-select.not-empty .custom-select__text{opacity:1}.custom-select.not-empty .custom-select__label,.custom-select.not-empty .custom-select__placeholder{opacity:0}.custom-select.is-invalid .custom-select__error{opacity:1}.custom-select.is-invalid .custom-select__button{border:2px solid #ff1553}.custom-select.is-invalid .custom-select__button:focus,.custom-select.is-invalid .custom-select__button:hover{border:2px solid rgba(255,21,83,.5)}.custom-select--placeholder .custom-select__label,.custom-select.slide-up.is-open .custom-select__label,.custom-select.slide-up.not-empty .custom-select__label{-webkit-transform:translateY(calc(-50% - 40px));-ms-transform:translateY(calc(-50% - 40px));transform:translateY(calc(-50% - 40px));opacity:1}.custom-select--placeholder.is-open .custom-select__label,.custom-select--placeholder.not-empty .custom-select__label,.custom-select.slide-up.is-open .custom-select__text,.custom-select.slide-up.not-empty .custom-select__text{opacity:1}.custom-select .input-message{position:absolute;right:0;bottom:-5px}.custom-select .input-message.is-invalid{color:red}.custom-select .input-message.is-valid{color:#15ab07}@media (max-width:1023px){.header{padding:20px 0 25px}.header__contact-item:not(:last-of-type){margin-right:20px}.header__contact-link{padding:20px;background-position:center}.header__button,.header__contact-capture{display:none}.presentation{padding:180px 0 205px;background-image:url(../../img/background/presentation-tablet.jpg)}.presentation__title{font-size:64px;line-height:75px;margin-bottom:20px}.presentation__wrapper p{margin-bottom:50px;width:100%}.presentation__wrapper{width:100%}.presentation__button{margin-left:6.9%}.advantages{padding-top:80px}}@media (max-width:1023px) and (-webkit-min-device-pixel-ratio:2),(max-width:1023px) and (-o-min-device-pixel-ratio:2/1),(max-width:1023px) and (min-resolution:2dppx){.presentation{background-image:url(../../img/background/presentation-tablet@2x.jpg);background-position:-123px 0}}@media (max-width:767px){.container{padding:0 25px}.button{font-size:14px;line-height:16px}.header{padding:10px 0 15px}.header__logo-img{width:35px;height:35px}.header__contact-item:last-of-type{margin-right:10px}.presentation{padding:150px 0 190px;background-image:url(../../img/background/presentation-mobile.jpg);background-position:-229px 0}.presentation__title{font-size:36px;line-height:42px}.presentation__wrapper p{font-size:14px;line-height:22px}.presentation__button{width:100%;margin-left:0}.presentation__button--mobile{display:block}.presentation__button--desktop{display:none}.advantages{padding-top:50px}.advantages__list{-ms-grid-columns:1fr;grid-template-columns:1fr}.advantages__item{padding:30px 30px 56px;min-height:270px}.advantages__item h3{font-size:20px;line-height:28px}.advantages__item p{font-size:14px;line-height:19px}.modal__wrapper{padding:60px 16px}.modal__content{width:100%;padding:20px}.modal--fit-content .modal__content{width:100%}}@media (max-width:767px) and (-webkit-min-device-pixel-ratio:2),(max-width:767px) and (-o-min-device-pixel-ratio:2/1),(max-width:767px) and (min-resolution:2dppx){.presentation{background-image:url(../../img/background/presentation-mobile@2x.jpg)}}@media screen and (max-width:767px){.custom-input,.custom-textarea{padding:4px 0 48px;width:100%}.custom-input label,.custom-textarea label{-webkit-box-align:start;-ms-flex-align:start;align-items:flex-start;-webkit-box-orient:vertical;-webkit-box-direction:normal;-ms-flex-direction:column;flex-direction:column}.custom-input label input,.custom-input label textarea,.custom-textarea label input,.custom-textarea label textarea{max-width:unset;width:100%}.custom-input__label,.custom-textarea__label{margin:0 0 18px}.custom-input__error,.custom-textarea__error{bottom:20px}.custom-toggle{padding:14px 0 10px;width:100%}.custom-toggle:last-of-type{padding:14px 0 58px}.custom-select{padding:4px 0 14px;width:100%}.custom-select__label,.custom-select__placeholder{-webkit-transform:translateY(calc(-50% - 5px));-ms-transform:translateY(calc(-50% - 5px));transform:translateY(calc(-50% - 5px))}}@media (hover:hover){.button:hover:not(.focus-visible),.header__contact-link:hover:not(.focus-visible),.header__logo-link:hover:not(.focus-visible){opacity:.8}.advantages__item:hover:not(.focus-visible){color:#f2f5f6;border-color:#00b2ff;background-color:#00b2ff}.custom-select__item[aria-selected=true]:hover:not(.focus-visible){background-color:rgba(0,0,0,.2)}.custom-select__item:hover:not(.focus-visible){background-color:rgba(0,0,0,.4)}}@media (-webkit-min-device-pixel-ratio:2),(-o-min-device-pixel-ratio:2/1),(min-resolution:2dppx){.presentation{background-image:url(../../img/background/presentation-desktop@2x.jpg)}}
 /*# sourceMappingURL=style.min.css.map */

diff --git a/build/css/style.css b/build/css/style.css
@@ -1546,6 +1546,7 @@ button,
 
   .presentation {
     padding: 180px 0 205px;
+    background-image: url("../../img/background/presentation-tablet.jpg");
   }
 
   .presentation__title {
@@ -1569,6 +1570,13 @@ button,
 
   .advantages {
     padding-top: 80px;
+  }
+}
+
+@media (max-width: 1023px) and (-webkit-min-device-pixel-ratio: 2), (max-width: 1023px) and (-o-min-device-pixel-ratio: 2/1), (max-width: 1023px) and (min-resolution: 2dppx) {
+  .presentation {
+    background-image: url("../../img/background/presentation-tablet@2x.jpg");
+    background-position: -123px 0;
   }
 }
 
@@ -1597,6 +1605,8 @@ button,
 
   .presentation {
     padding: 150px 0 190px;
+    background-image: url("../../img/background/presentation-mobile.jpg");
+    background-position: -229px 0;
   }
 
   .presentation__title {
@@ -1657,6 +1667,12 @@ button,
 
   .modal--fit-content .modal__content {
     width: 100%;
+  }
+}
+
+@media (max-width: 767px) and (-webkit-min-device-pixel-ratio: 2), (max-width: 767px) and (-o-min-device-pixel-ratio: 2/1), (max-width: 767px) and (min-resolution: 2dppx) {
+  .presentation {
+    background-image: url("../../img/background/presentation-mobile@2x.jpg");
   }
 }
 

diff --git a/source/sass/blocks/presentation.scss b/source/sass/blocks/presentation.scss
@@ -11,10 +11,22 @@
 
   @include vp-1023 {
     padding: 180px 0 205px;
+    background-image: url("../../img/background/presentation-tablet.jpg");
+
+    @include retina {
+      background-image: url("../../img/background/presentation-tablet@2x.jpg");
+      background-position: -123px 0;
+    }
   }
 
   @include vp-767 {
     padding: 150px 0 190px;
+    background-image: url("../../img/background/presentation-mobile.jpg");
+    background-position: -229px 0;
+
+    @include retina {
+      background-image: url("../../img/background/presentation-mobile@2x.jpg");
+    }
   }
 }
 
